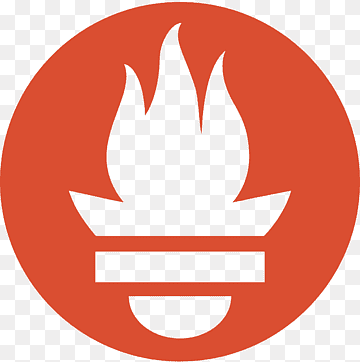
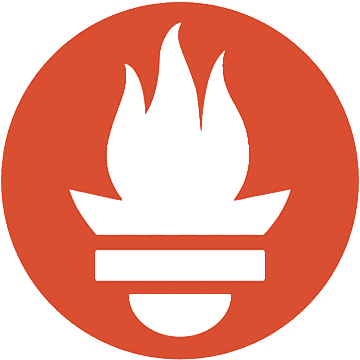
fixed the readme images

diff --git a/README.md b/README.md
@@ -29,7 +29,7 @@ Use the argocd-config-and-deploy.yaml that specifies the argo applications.
 
 ### promethues
 Scrapes both the App pods and the MongoDB pods
-<div align="center"><img src="/readme_images/promethues.png" alt="mongo" width="500" height="300"></div>
+<div align="center"><img src="/readme_images/prometheus.png" alt="mongo" width="500" height="300"></div>
 
 ### grafana
 that needs the grafana-service.yaml to grant access from outside the cluster.
